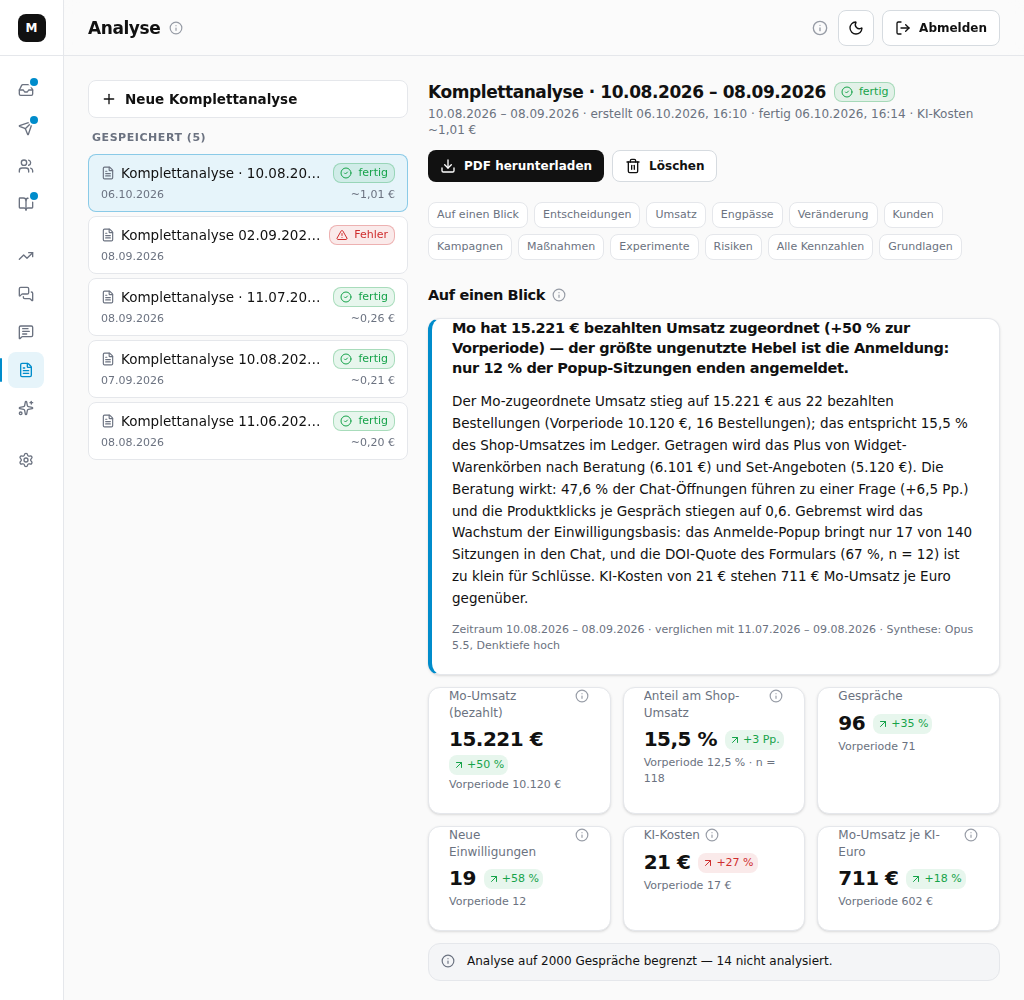
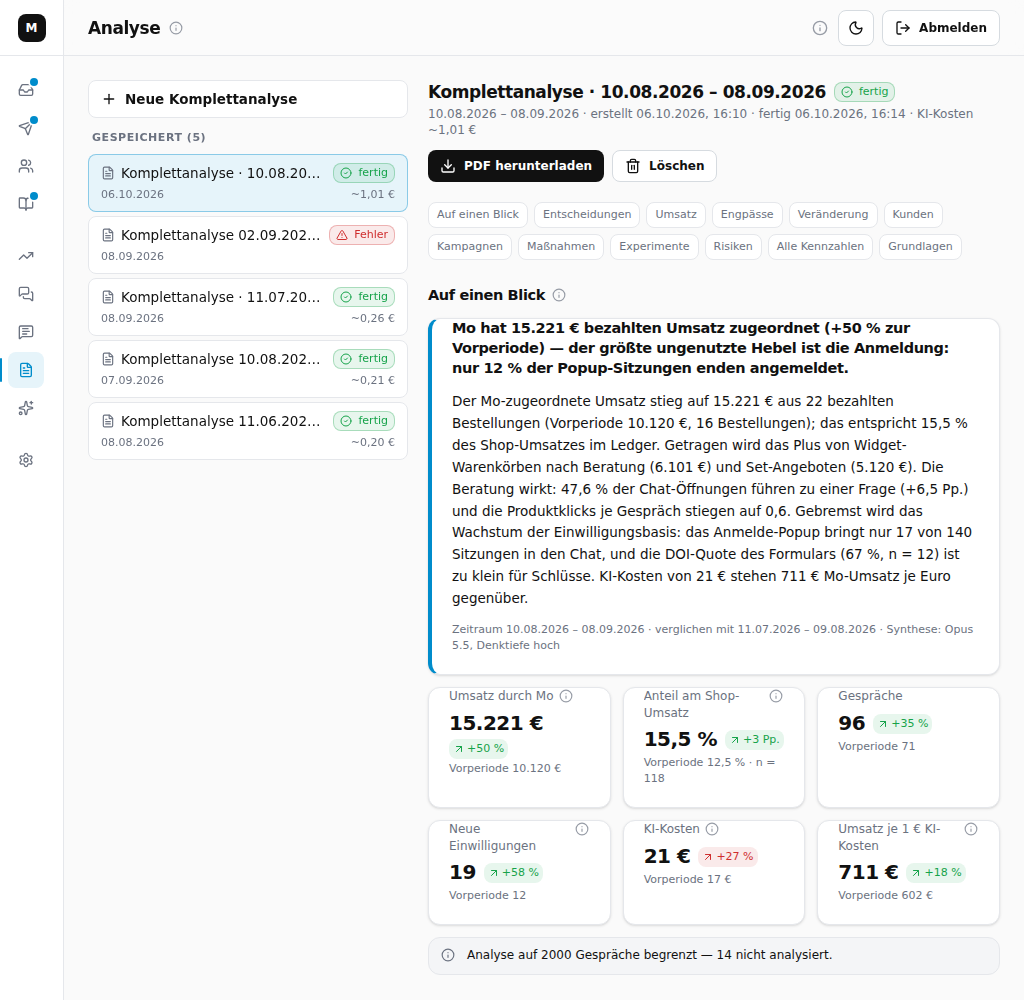
Docs: snapshot revenue from the KPI core, field contract; new report shots
BUSINESS_SNAPSHOT.md: the getters (getMoRevenueData, getJourneyCounts),
the KPI fold of „Umsatz durch Mo“, the raw-field contract and its two
checks, the new revenue / journey / bundle metrics and tables, the revenue
caveats, the per-day rule of the report comparison. ADMIN_DASHBOARD.md:
the report chapters „Umsatz durch Mo“ and „Engpässe“. Report screenshots
(1440 / 1024, light / dark) retaken from the refreshed sample report.

Claude-Session: https://claude.ai/code/session_012fxHBW88bMmfRpyx9fu3p7

diff --git a/docs/BUSINESS_SNAPSHOT.md b/docs/BUSINESS_SNAPSHOT.md
@@ -9,9 +9,11 @@ baseline. Since 2026-10-06.
 
 | File | Role |
 | --- | --- |
-| [`business-snapshot-core.mjs`](../src/lib/business-snapshot-core.mjs) | Pure, tested: `buildBusinessSnapshot(raw)`, the metric / delta / format helpers, caveats, admin links, `scrubPii`, `renderSnapshotForPrompt`, `summarizeMoOrderRows` |
-| [`business-snapshot.ts`](../src/lib/business-snapshot.ts) | Data layer: `getBusinessSnapshot(range, opts)`, `collectBusinessSnapshotRaw`, `snapshotSwitches`; the TypeScript shape (`BusinessSnapshot`, `SnapshotMetric`, …) |
-| [`business-snapshot.fixtures.mjs`](../src/lib/business-snapshot.fixtures.mjs) | A realistic raw input for tests (`SAMPLE_SNAPSHOT_RAW`) |
+| [`business-snapshot-core.mjs`](../src/lib/business-snapshot-core.mjs) | Pure, tested: `buildBusinessSnapshot(raw)`, the metric / delta / format helpers, caveats, admin links, `scrubPii`, `renderSnapshotForPrompt`; the revenue fold `snapshotRevenue`, `campaignRevenueByCode`, `withCampaignRevenue`, `campaignCodesIn`; the raw-field contract `SNAPSHOT_RAW_FIELDS` |
+| [`business-snapshot.ts`](../src/lib/business-snapshot.ts) | Data layer: `getBusinessSnapshot(range, opts)`, `collectBusinessSnapshotRaw`, `snapshotSwitches`; the TypeScript shape (`BusinessSnapshot`, `SnapshotMetric`, …) and the compile-time check of `SNAPSHOT_RAW_FIELDS` against the getter types |
+| [`business-snapshot.fixtures.mjs`](../src/lib/business-snapshot.fixtures.mjs) | A realistic raw input for tests (`SAMPLE_SNAPSHOT_RAW`, every part in its getter's shape; `SAMPLE_PREVIOUS_PERIOD_RAW`) |
+| [`field-reads.mjs`](../src/lib/field-reads.mjs) | Test helper: records which fields a pure function reads (`recordFieldReads`, `hasFieldPath`) |
+| [`ai-call-sites.mjs`](../src/lib/ai-call-sites.mjs) | The German AI call-site labels, shared with the KPI section „KI-Kosten“ |
 
 ## How it is collected
 
@@ -23,26 +25,56 @@ Daten“; a failing part is reported (`reportError`, route
 - **Same numbers as the KPI screen.** It calls the KPI getters read-only —
   `getCoreMetrics`, `getPageContextKpis`, `getLocaleSplit`, `getLoginGateFunnel`,
   `getAccountActivity`, `getConsentGateFunnel`, `getEmailCaptureFunnel`,
-  `getOrderStatusKpis` (`kpi-store.ts`), `getMoAttributionKpis`,
-  `getAiCostMetrics`, `getInboxKpis`, `getQaKpis`, `getFeedbackKpis`,
-  `getBundleKpis`, `getConversationStats`, `getCustomerBaseKpis`,
-  `getMoEffectKpis` (+ `computeMoEffect`) and `getReportKpis` — with the same
-  UTC day window (`created_at >= from AND < to + 1`).
+  `getOrderStatusKpis` (`kpi-store.ts`), `getJourneyCounts`
+  (`kpi-journey-store.ts`), `getMoRevenueData` (`mo-revenue-store.ts`, both
+  periods in one call), `getAiCostMetrics`, `getInboxKpis`, `getQaKpis`,
+  `getFeedbackKpis`, `getBundleKpis`, `getConversationStats`,
+  `getCustomerBaseKpis`, `getMoEffectKpis` (+ `computeMoEffect`) and
+  `getReportKpis` — with the same UTC day window (`created_at >= from AND < to + 1`).
+- **„Umsatz durch Mo“ is the KPI screen's fold.** The core folds the ledger of
+  `getMoRevenueData` with the KPI screen's own pure functions
+  ([`mo-revenue.mjs`](../src/lib/mo-revenue.mjs), as `kpi/revenue-view.ts`
+  does): `mergeCodeRedemptions` adds the coded orders the Shopify lookup found
+  that the ledger does not hold (a code or order number already in the ledger
+  counts once, from the ledger), `summariseRevenue` sums paid orders by tier and
+  by channel — one channel per order (Mo code before Mo link before widget
+  marker), so nothing is counted twice. The previous period is the ledger alone,
+  as on the KPI screen. The campaign revenue is the channel „Kampagne (MK-Code)“
+  split by campaign (`campaignRevenueByCode`: same rules, so the campaigns add up
+  to the channel); the ROI is `revenuePerAiEuro`. The journey funnel is
+  `journeyFunnel` ([`kpi-journey.mjs`](../src/lib/kpi-journey.mjs)).
 - **Own small queries** for what no getter answers per period (spelled out, the
-  Neon tag is not composable): `mo_orders` of the period by marker source, by
-  code family (MS5- / MK-) and by campaign (MK code → `campaign_sends`);
-  campaign sends per campaign with tracked / clicked / chat started /
-  unsubscribed / delivered / bounced / complained and letters
-  (`physical_letters`); one-click e-mail ratings per mail kind (`feedback.rating`);
-  the order ledger (`customer_orders`, not cancelled, net of refunds, first-time
-  vs. returning buyers); new subscribers (`consent_events`, the backfill excluded).
-- **Optional Shopify cross-check** (`includeShopify`, current period only): Mo
-  codes checked at Shopify through the KPI screen's 10-minute cache
-  (`loadKpiShopifyBlock`), bounded by `shopifyTimeoutMs` (45 s). The
-  Komplettanalyse turns it on when Shopify is configured.
+  Neon tag is not composable): campaign sends per campaign with tracked /
+  clicked / chat started / unsubscribed / delivered / bounced / complained and
+  letters (`physical_letters`); the campaign of each MK code (`campaign_sends`);
+  one-click e-mail ratings per mail kind (`feedback.rating`); the order ledger
+  (`customer_orders`, not cancelled, net of refunds, first-time vs. returning
+  buyers); new subscribers (`consent_events`, the backfill excluded).
+- **Shopify code lookup** (`includeShopify`, current period only): the KPI
+  screen's cached block (`loadKpiShopifyBlock`, 10 minutes), loaded in parallel
+  and bounded by `shopifyTimeoutMs` (45 s). The Komplettanalyse turns it on when
+  Shopify is configured; without it „Umsatz durch Mo“ is the ledger alone and a
+  caveat says so.
 - **Previous period** = the same number of days ending the day before `from`
-  (`previousPeriod`). Release notes and switches come from
-  [`kpi-releases.mjs`](../src/lib/kpi-releases.mjs) and the flag readers.
+  (`previousPeriod`, identical to the KPI screen's — tested). Release notes and
+  switches come from [`kpi-releases.mjs`](../src/lib/kpi-releases.mjs) and the
+  flag readers.
+
+### The raw-field contract
+
+`SNAPSHOT_RAW_FIELDS` lists every getter field the builder reads, per raw part
+(`period` for `cur`/`prev`, `lifetime`, `moRevenue`, `shopify`,
+`campaignCodes`). Two checks keep it honest:
+
+- **tsc** — `business-snapshot.ts` resolves each path against the return type of
+  the part (`SnapshotRawFieldCheck`): a getter that drops or renames a field the
+  snapshot reads fails the type check with the path in the message.
+- **`npm test`** — the builder runs on a recording proxy of the fixture
+  (`recordFieldReads`): it fails when the builder reads a field that is not
+  declared, or when the fixture lacks a declared field.
+
+A new field: read it in the core, add it to `SNAPSHOT_RAW_FIELDS` and to the
+fixture.
 
 ## Shape (`SNAPSHOT_VERSION` 1)
 
@@ -81,21 +113,23 @@ KPI links carry the period and the section anchor).
 
 | Section (link) | Metrics | Tables |
 | --- | --- | --- |
-| `revenue` Umsatz über Mo (`kpi_umsatz`) | `revenue.total` (realised Mo-attributed revenue, all tiers), `revenue.orders`, `revenue.aov`, `revenue.direct`, `revenue.assisted`, `revenue.influenced`, `revenue.ms5`, `revenue.mk` (paid orders with an MS5- / MK- code), `revenue.unrealised` (marked, not paid), `revenue.unresolved` (marked, no consultation — `mo_order_marker_unresolved`), `revenue.codesShopify` (heute; Shopify cross-check) | `revenue.tiers` (orders, revenue per tier), `revenue.sources` (per marker source: widget, summary_email, marketing_email, bundle, discount_code) |
-| `chat` Beratung im Chat (`kpi_beratung`) | `chat.reach`, `chat.opened`, `chat.wrote` (sessions), `chat.engagement` (opened → wrote), `chat.chats`, `chat.avgMessages`, `chat.productClicks`, `chat.clicksPerChat`, `chat.cartClicks`, `chat.cartPerChat`, `chat.abandoned`, `chat.recommended` (conversations with a product selection), `chat.pageContext`, `chat.pageContextResolved` (A3), `chat.englishShare` | — |
+| `revenue` Umsatz durch Mo (`kpi_umsatz`) | Exactly the KPI section „Umsatz durch Mo“: `revenue.total` (paid, ledger + Shopify code complement; previous = ledger), `revenue.orders`, `revenue.aov`, `revenue.assisted`, `revenue.influenced`, `revenue.direct` (the three tiers), `revenue.withMoCode` (cross-cut: orders with an MS5-/MK- code, inside the tiers), `revenue.unrealised` (recorded, not paid), `revenue.unresolved` (marked, no consultation — `mo_order_marker_unresolved`; current period only), `revenue.codeComplement` (current period only; orders with a Mo code from before the webhook registration, found by the Shopify lookup) | `revenue.tiers` (orders, revenue, share per tier), `revenue.channels` (orders, revenue, share, Ø per channel — „Wie der Umsatz entstand“; „Sonstiger Mo-Weg“ only when it holds an order) |
+| `chat` Beratung im Chat (`kpi_beratung`) | `chat.reach`, `chat.opened`, `chat.wrote` (sessions), `chat.engagement` (opened → wrote), `chat.chats`, `chat.avgMessages`, `chat.productClicks`, `chat.clicksPerChat`, `chat.cartClicks`, `chat.cartPerChat`, `chat.abandoned`, `chat.recommended` (conversations with a product selection), `chat.pageContext`, `chat.pageContextResolved` (A3), `chat.englishShare`; „Vom Chat zur Bestellung“ (`kpi-journey`, sessions with a chat started in the period): `journey.chats`, `journey.orderedAny` (sessions with a Mo-attributed paid order afterwards), `journey.chatToOrder`, `journey.revenuePerChat` | — |
 | `signin` Anmeldung & Wiedererkennung (`kpi_anmeldung`) | `signin.popupShown`, `signin.popupClicked`, `signin.popupLinked`, `signin.popupRate`, `signin.linkedSignin`, `signin.linkedShop` (App Proxy), `signin.recognised`, `signin.redeemRate`, `signin.refused`, `signin.shopifySignins`, `account.exports`, `account.erasures`, `account.contactForms` | — |
 | `consent` Einwilligung & E-Mail (`kpi_einwilligung`) | `consent.popupShown`, `consent.popupAccepted`, `consent.popupRate`, `consent.popupOptIns` (sessions, all sign-in ways), `consent.newSubscribers`, `capture.asked`, `capture.submitted`, `capture.submitRate`, `capture.optedIn`, `capture.doiSent`, `capture.confirmed`, `capture.doiRate` | `consent.byWay` (Anmelden / Shop-Login / ohne), `consent.byVariant` (current period; data from the widget of 06.10.2026) |
-| `campaigns` Kampagnen & Briefe (`kampagnen`) | `campaigns.sent`, `campaigns.clicked` (button or set), `campaigns.clickRate` (of tracked sends), `campaigns.chatStarted`, `campaigns.orders`, `campaigns.revenue` (paid orders in the period with an MK code of the campaign), `campaigns.unsubscribed`, `campaigns.unsubscribeRate`, `campaigns.bounced`, `campaigns.complained`, `campaigns.rating`, `letters.sent`, `letters.cost`, `campaigns.redeemedShopify` (heute) | `campaigns.byCampaign` (sent, click rate, chats, orders, revenue, unsubscribed, letters — also campaigns with revenue but no send in the period) |
-| `customers` Kund:innen & Wiederkauf (`kunden`) | `ledger.orders`, `ledger.revenue`, `ledger.buyers`, `ledger.newBuyers`, `ledger.returningBuyers`, `ledger.repeatShare`, `ledger.moShare` (Mo revenue ÷ ledger revenue; null above 100 % — ledger incomplete), heute: `customers.total`, `customers.shopify`, `customers.withMo`, `customers.subscribed`, `customers.subscribedShare`, `customers.churnHigh`, `moEffect.repurchaseMo`, `moEffect.repurchaseComparable`, `moEffect.aovMo`, `moEffect.aovComparable`, `moEffect.wonByMo`, `moEffect.wonByMoRevenue` | `customers.segments`, `customers.valueTiers`, `customers.subscriberSources`, `moEffect.byTier` |
+| `campaigns` Kampagnen, Bundles & Briefe (`kampagnen`) | `campaigns.sent`, `campaigns.clicked` (button or set), `campaigns.clickRate` (of tracked sends), `campaigns.chatStarted`, `campaigns.orders`, `campaigns.revenue` (the channel „Kampagne (MK-Code)“ of „Umsatz durch Mo“), `campaigns.unsubscribed`, `campaigns.unsubscribeRate`, `campaigns.bounced`, `campaigns.complained`, `campaigns.rating`, `letters.sent`, `letters.cost`, `bundles.created`, `bundles.clicks`, `bundles.revenue` (the channel „Set-Angebot“), `campaigns.redeemedShopify` (current period only) | `campaigns.byCampaign` (sent, click rate, chats, orders, revenue, unsubscribed, letters — also campaigns with revenue but no send in the period; the revenue column adds up to `campaigns.revenue`) |
+| `customers` Kund:innen & Wiederkauf (`kunden`) | `ledger.orders`, `ledger.revenue`, `ledger.buyers`, `ledger.newBuyers`, `ledger.returningBuyers`, `ledger.repeatShare`, `ledger.moShare` („Umsatz durch Mo“ ÷ ledger revenue; null above 100 % — ledger incomplete), heute: `customers.total`, `customers.shopify`, `customers.withMo`, `customers.subscribed`, `customers.subscribedShare`, `customers.churnHigh`, `moEffect.repurchaseMo`, `moEffect.repurchaseComparable`, `moEffect.aovMo`, `moEffect.aovComparable`, `moEffect.wonByMo`, `moEffect.wonByMoRevenue` | `customers.segments`, `customers.valueTiers`, `customers.subscriberSources`, `moEffect.byTier` |
 | `inbox` Eingang (`eingang`) | `inbox.created`, `inbox.acted`, `inbox.actedShare`, `inbox.dismissed`, `inbox.suggestions`, `inbox.ordersAfterActed`, `inbox.revenueAfterActed` (14-day outcome of operator decisions) | `inbox.byKind` |
 | `quality` Qualität, Wissen & Feedback (`gespraeche`) | `quality.coverage`, `quality.handledWell`, `quality.unmetNeed`, `quality.droppedOff` (of analysed conversations), `quality.noReply`, `knowledge.gaps`, `knowledge.published`, `knowledge.hoursToAnswer`, heute: `knowledge.open`, `knowledge.scanBacklog`; `feedback.total`, `feedback.rating` (all mail kinds), `orderStatus.lookups`, `orderStatus.answered` | `quality.distribution`, `quality.categories` (top 8), `feedback.ratings` |
-| `costs` KI-Kosten & Rendite (`kpi_kosten`) | `costs.total`, `costs.chat`, `costs.admin`, `costs.perConsultation`, `costs.cacheHitRate`, `costs.cacheSaved`, `costs.roi` (Mo revenue per 1 € AI cost) | `costs.byCallSite` (top 12) |
+| `costs` KI-Kosten & Rendite (`kpi_kosten`) | `costs.total`, `costs.chat`, `costs.admin`, `costs.perConsultation`, `costs.cacheHitRate`, `costs.cacheSaved` (null before the usage capture started, as on the KPI screen), `costs.roi` („Umsatz durch Mo“ per 1 € AI cost — the KPI tile „Umsatz je 1 € KI-Kosten“) | `costs.byCallSite` (top 12, labels from `ai-call-sites.mjs`) |
 
-**Funnels** (`funnels`): `chat` (Widget gesehen → geöffnet → geschrieben,
+**Funnels** (`funnels`): `journey` („Vom Chat zur Bestellung“: Beratung →
+Produkt gezeigt → Produkt angeklickt → Warenkorb / Kasse → Bestellt, nested
+sessions — `kpi-journey`), `chat` (Widget gesehen → geöffnet → geschrieben,
 sessions), `signin` (popup → „Anmelden“ → Shopify → im Chat), `consent` (popup →
 accepted → server opt-in), `capture` (offered → form → marketing box → DOI,
-events), `campaign` (sent → clicked → chat → ordered). Funnels without any data
-are left out.
+events), `campaign` (sent → clicked → chat → ordered with an MK code). Funnels
+without any data are left out.
 
 **Switches** (`switches`, values only, **Stand heute — not historical**):
 `shopifyConfigured`, `customerSync`, `consentWriteback`, `campaignSendsApproved`,
@@ -116,9 +150,14 @@ report shows them under „Risiken & Datenqualität“:
   („Vorperiode nur eingeschränkt vergleichbar“);
 - **missing data** (a getter returned null), **small samples**, **analysis
   coverage** below 50 %, an **incomplete ledger** (Mo revenue above the ledger's);
+- **revenue comparability**: the Shopify code complement counts in the current
+  period only (with the like-for-like change of the ledger alone), or the lookup
+  was not available (not requested or timed out — then the total can be lower
+  than on the KPI screen); orders in another currency or without a Mo channel
+  are not counted;
 - **switches that change a number's meaning**: customer sync off, attribution
   window from minting, page context without a control group; the Shopify
-  cross-check as a sample;
+  lookup as a sample;
 - the standing rules: **opens are not measured** (no tracking pixel), customer
   base and Mo effect are **Stand heute** and a **correlation**, only **marked
   orders** count for Mo (a lower bound).
@@ -147,6 +186,6 @@ A completed Komplettanalyse stores its snapshot in `sections.snapshot` (v2): a
 later run compares `flattenSnapshot(report.sections.snapshot)` with a fresh
 snapshot by key (`COMPARISON_KEYS` and `buildReportComparison` in
 [`analytics-report-synthesis-core.mjs`](../src/lib/analytics-report-synthesis-core.mjs)
-show how; counts per day when the periods differ). The recommendations of a v2
+show how; sums per day when the periods differ — averages and ratios such as `revenue.aov` or `costs.roi` as they are, `NON_ADDITIVE_KEYS`). The recommendations of a v2
 report name the snapshot key in their success metric (e.g. `signin.popupRate`
 from 12 % to 18 % in 4 weeks), so a Wirkungs-Check can look it up.

diff --git a/docs/ADMIN_DASHBOARD.md b/docs/ADMIN_DASHBOARD.md
@@ -1054,7 +1054,7 @@ stepped by `useStepLoop` over `analytics/step`, one bounded chunk per step:
 | `personas` | top questions per persona, 2 per step | writer |
 | `customer_synthesis` | aggregate, pseudonymous customer knowledge | analyst |
 | `customer_profiles` | optional per-customer profile, 1 per step | deep |
-| `snapshot` | the business snapshot of the period vs. the previous period ([`BUSINESS_SNAPSHOT.md`](./BUSINESS_SNAPSHOT.md)) and the comparison with the last stored completed report | — (pure DB, Shopify cross-check cached) |
+| `snapshot` | the business snapshot of the period vs. the previous period ([`BUSINESS_SNAPSHOT.md`](./BUSINESS_SNAPSHOT.md)) and the comparison with the last stored completed report | — (pure DB, Shopify code lookup cached) |
 | `decisions` | strategist pass 1: headline, summary, 3–5 decisions, revenue story, bottlenecks, changes, segments, campaigns | strategist |
 | `plan` | strategist pass 2: prioritised recommendations, experiments, risks, data-quality caveats | strategist |
 | `assemble` | pure aggregations, the sections payload | — |
@@ -1087,15 +1087,17 @@ dispatches): a v2 payload (`sections.version` 2 with `snapshot`, `decision`,
 `comparison`) renders [`DecisionReport.tsx`](../src/app/admin/analytics/DecisionReport.tsx),
 with a chip navigation to its chapters, each explained behind its InfoTip:
 
-1. **Auf einen Blick** — headline and summary, six headline tiles (Mo-Umsatz,
-   Anteil am Shop-Umsatz, Gespräche, Neue Einwilligungen, KI-Kosten, Mo-Umsatz
-   je KI-Euro) with the change against the previous period, generation notes.
+1. **Auf einen Blick** — headline and summary, six headline tiles (Umsatz durch Mo,
+   Anteil am Shop-Umsatz, Gespräche, Neue Einwilligungen, KI-Kosten, Umsatz je
+   1 € KI-Kosten) with the change against the previous period, generation notes.
 2. **Jetzt entscheiden** — 3–5 decisions: rationale with numbers, owner
    (Betrieb / Entwicklung / Frontend / Anwalt), impact, confidence, success
    metric, link into the admin screen.
-3. **Umsatz über Mo** — how it came about, tier tiles, drivers, revenue by marker source.
+3. **Umsatz durch Mo** — the same figures as the KPI section „Umsatz durch Mo“ (ledger + Shopify code
+   complement, one channel per order): how it came about, tier tiles, drivers, revenue by channel
+   („Wie der Umsatz entstand“).
 4. **Engpässe im Funnel** — the bottlenecks with evidence, the measured funnels
-   (chat, sign-in popup, consent, capture form, campaign) as bars with step
+   (vom Chat zur Bestellung, chat, sign-in popup, consent, capture form, campaign) as bars with step
    conversion and previous period.
 5. **Seit dem letzten Bericht** — link to the compared report, the model's
    reading (incl. whether earlier recommendations show), the metric table now
